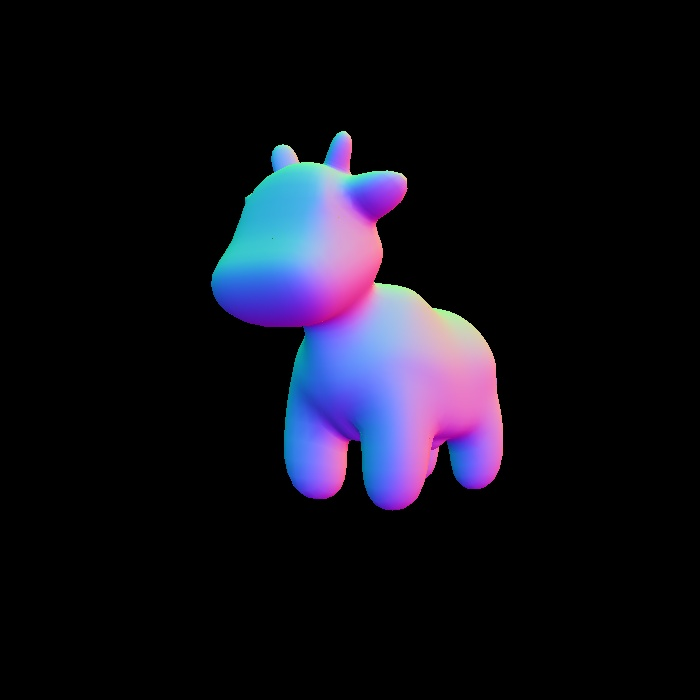
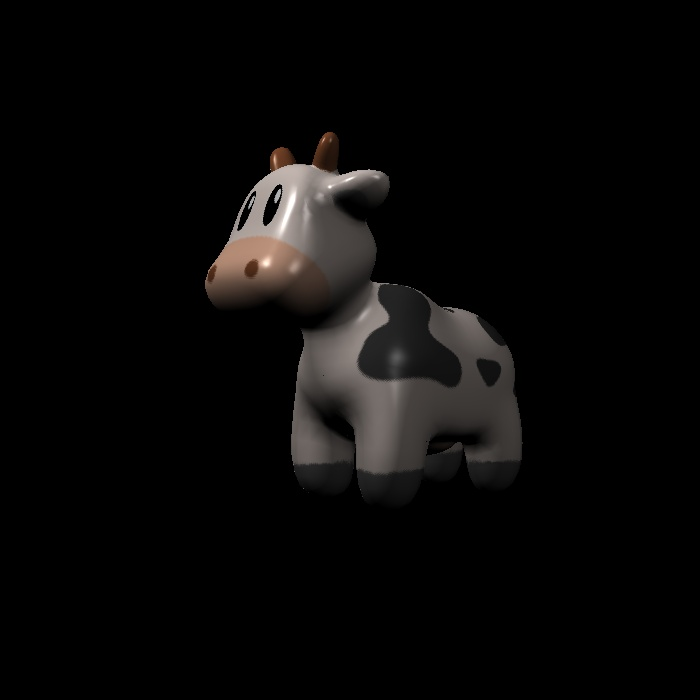
fix rotation issue

Changed region(s): [[0.27, 0.18, 0.75, 0.75]]

diff --git a/src/Assignment3/Texture.hpp b/src/Assignment3/Texture.hpp
@@ -7,6 +7,7 @@
 #include "global.hpp"
 #include <eigen3/Eigen/Eigen>
 #include <opencv2/opencv.hpp>
+#include <algorithm>
 class Texture{
 private:
     cv::Mat image_data;
@@ -15,18 +16,48 @@ public:
     Texture(const std::string& name)
     {
         image_data = cv::imread(name);
-        cv::cvtColor(image_data, image_data, cv::COLOR_RGB2BGR);
-        width = image_data.cols;
-        height = image_data.rows;
+        if (!image_data.empty())
+        {
+            // --- old version (kept for reference) ---
+            // cv::cvtColor(image_data, image_data, cv::COLOR_RGB2BGR);
+
+            // OpenCV loads images as BGR by default. Convert to RGB so shaders treat
+            // sampled colors as (R,G,B) consistently.
+            cv::cvtColor(image_data, image_data, cv::COLOR_BGR2RGB);
+            width = image_data.cols;
+            height = image_data.rows;
+        }
+        else
+        {
+            width = 0;
+            height = 0;
+        }
     }
 
     int width, height;
 
     Eigen::Vector3f getColor(float u, float v)
     {
-        auto u_img = u * width;
-        auto v_img = (1 - v) * height;
-        auto color = image_data.at<cv::Vec3b>(v_img, u_img);
+        if (image_data.empty() || width <= 0 || height <= 0)
+        {
+            return Eigen::Vector3f(0, 0, 0);
+        }
+
+        // --- old version (kept for reference; can go out-of-bounds) ---
+        // auto u_img = u * width;
+        // auto v_img = (1 - v) * height;
+        // auto color = image_data.at<cv::Vec3b>(v_img, u_img);
+        // return Eigen::Vector3f(color[0], color[1], color[2]);
+
+        // Clamp UVs to [0,1] to avoid out-of-bounds access from interpolation.
+        u = std::clamp(u, 0.0f, 1.0f);
+        v = std::clamp(v, 0.0f, 1.0f);
+
+        // Map to pixel coordinates. Use width-1/height-1 so u=1,v=0 stay in range.
+        const int x = std::clamp(static_cast<int>(u * (width - 1)), 0, width - 1);
+        const int y = std::clamp(static_cast<int>((1.0f - v) * (height - 1)), 0, height - 1);
+
+        const auto color = image_data.at<cv::Vec3b>(y, x);
         return Eigen::Vector3f(color[0], color[1], color[2]);
     }
 

diff --git a/src/Assignment3/main.cpp b/src/Assignment3/main.cpp
@@ -401,8 +401,17 @@ int main(int argc, const char** argv)
             cv::cvtColor(image, image, cv::COLOR_RGB2BGR);
 
             cv::imshow("image", image);
-            cv::imwrite(filename, image);
+            // cv::imwrite(filename, image);
             key = cv::waitKey(10);
+
+            if (key == 'a' )
+            {
+                angle -= 5.0f;
+            }
+            else if (key == 'd')
+            {
+                angle += 5.0f;
+            }
         }
 
         return 0;
